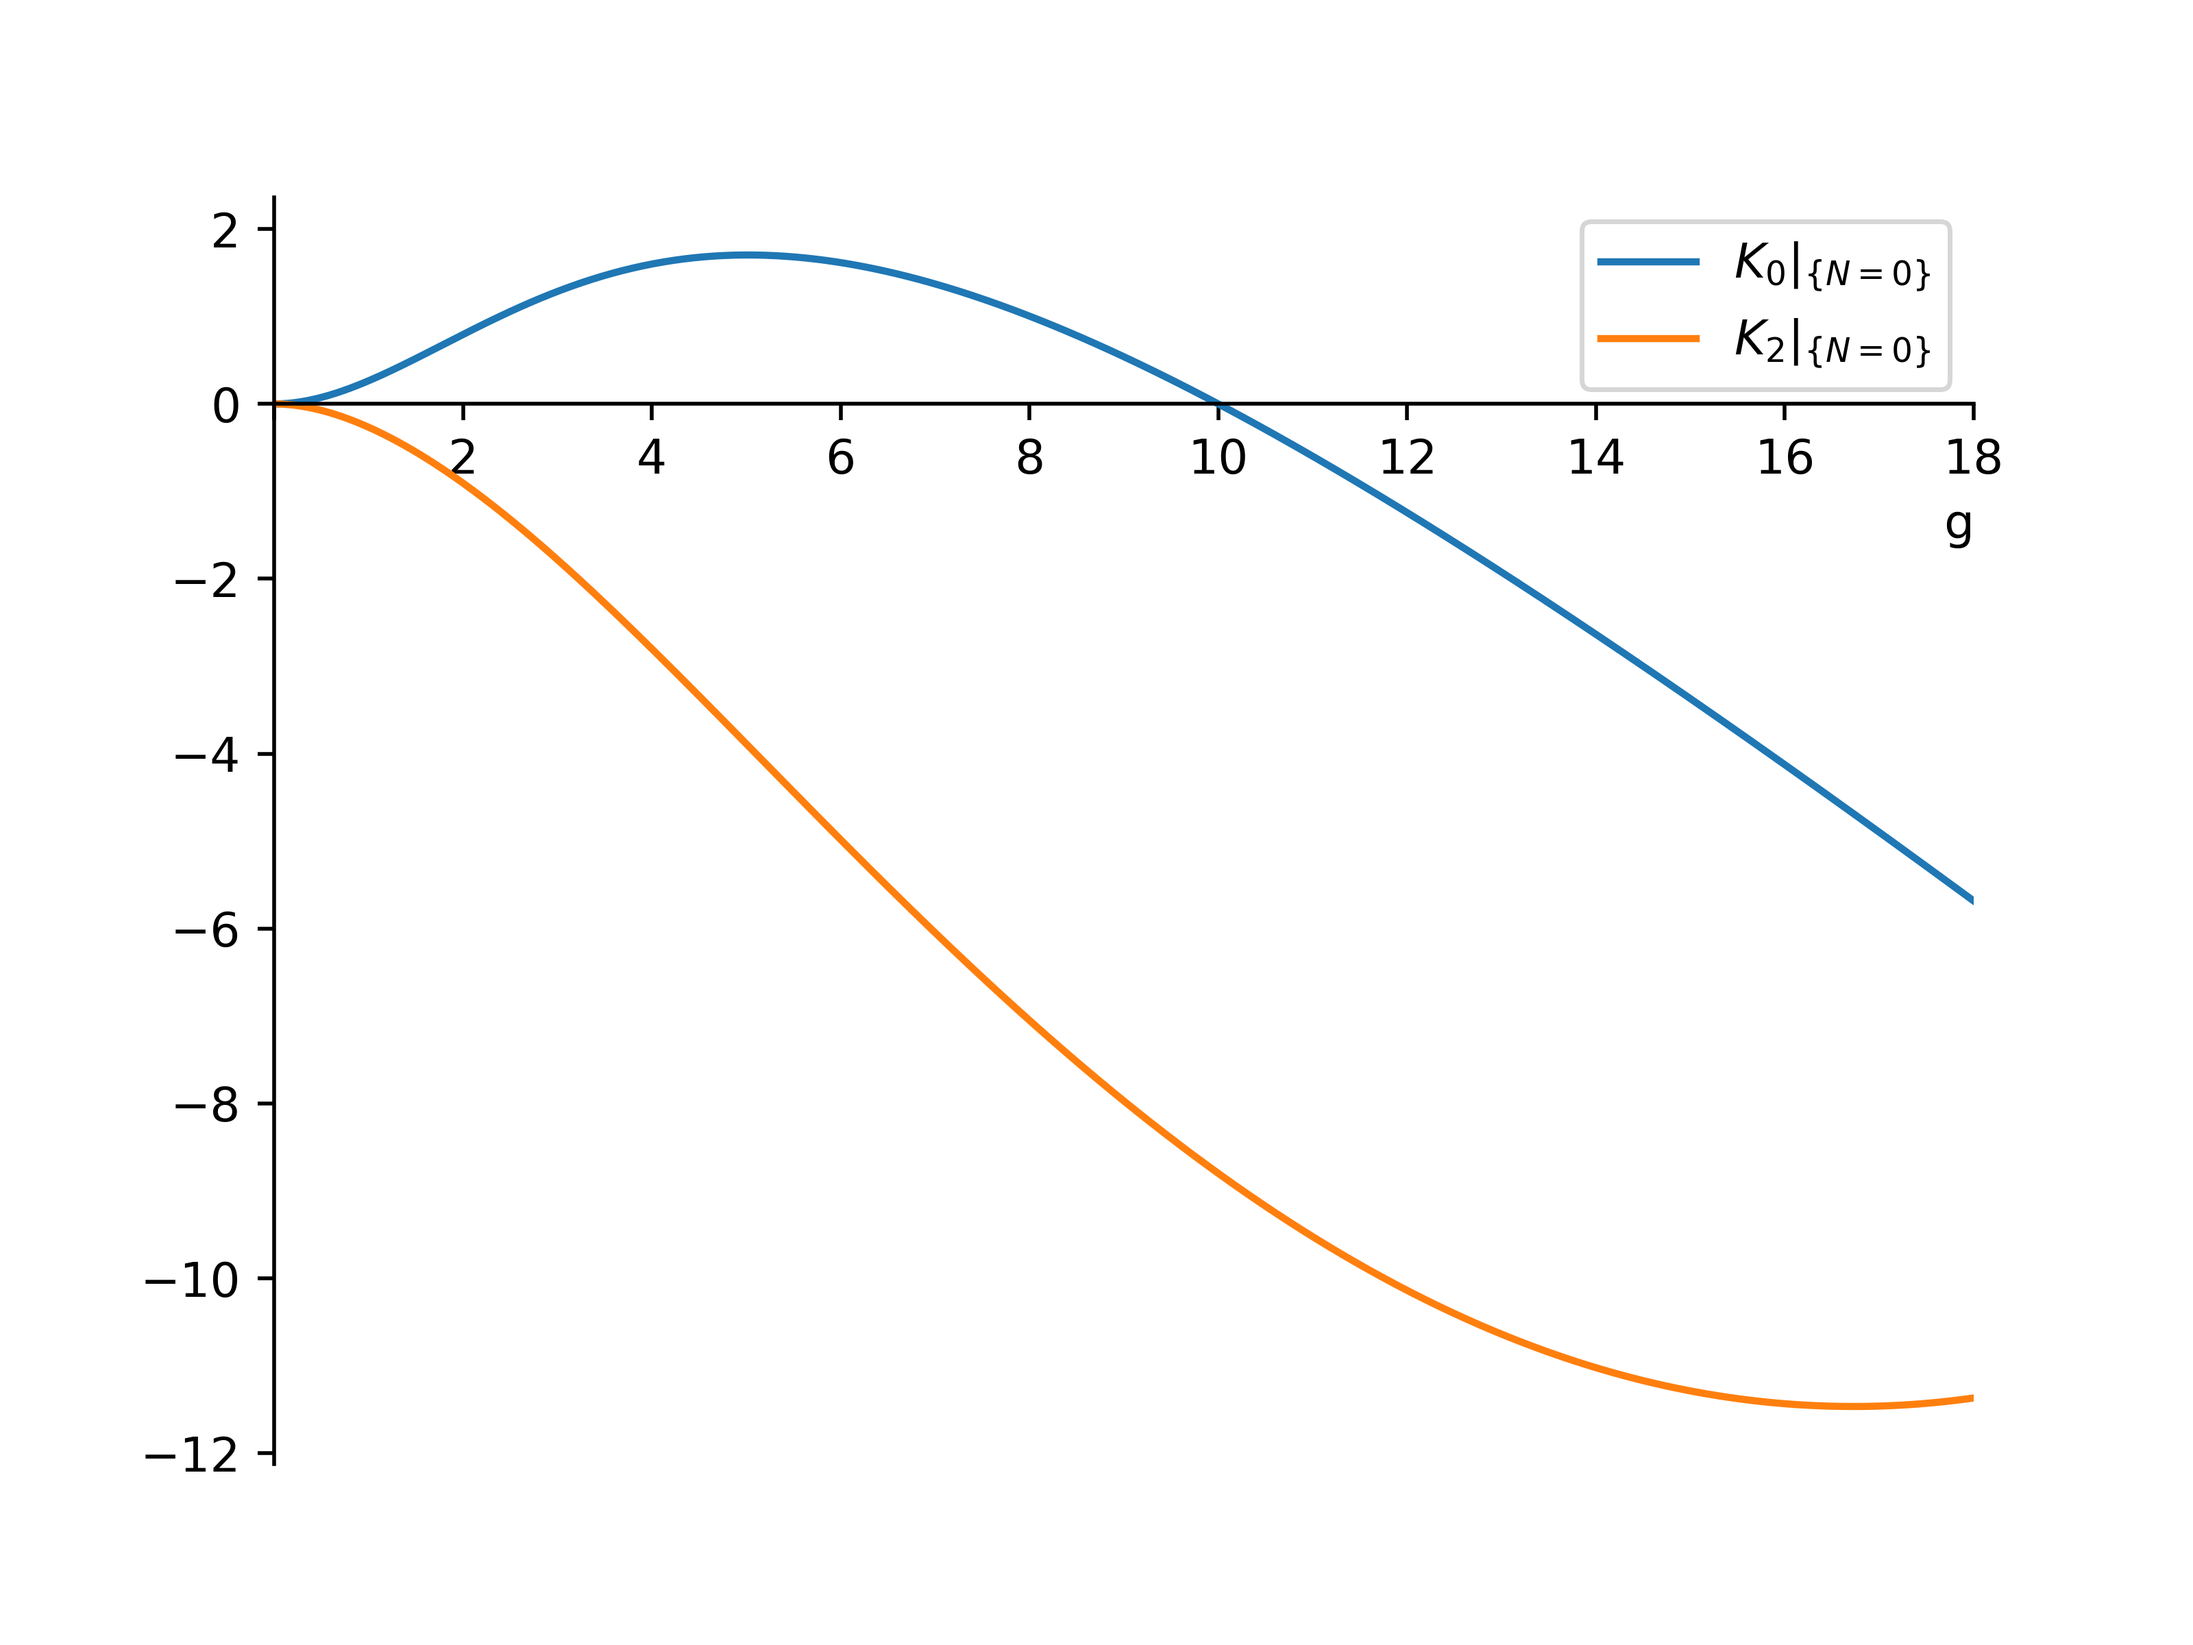
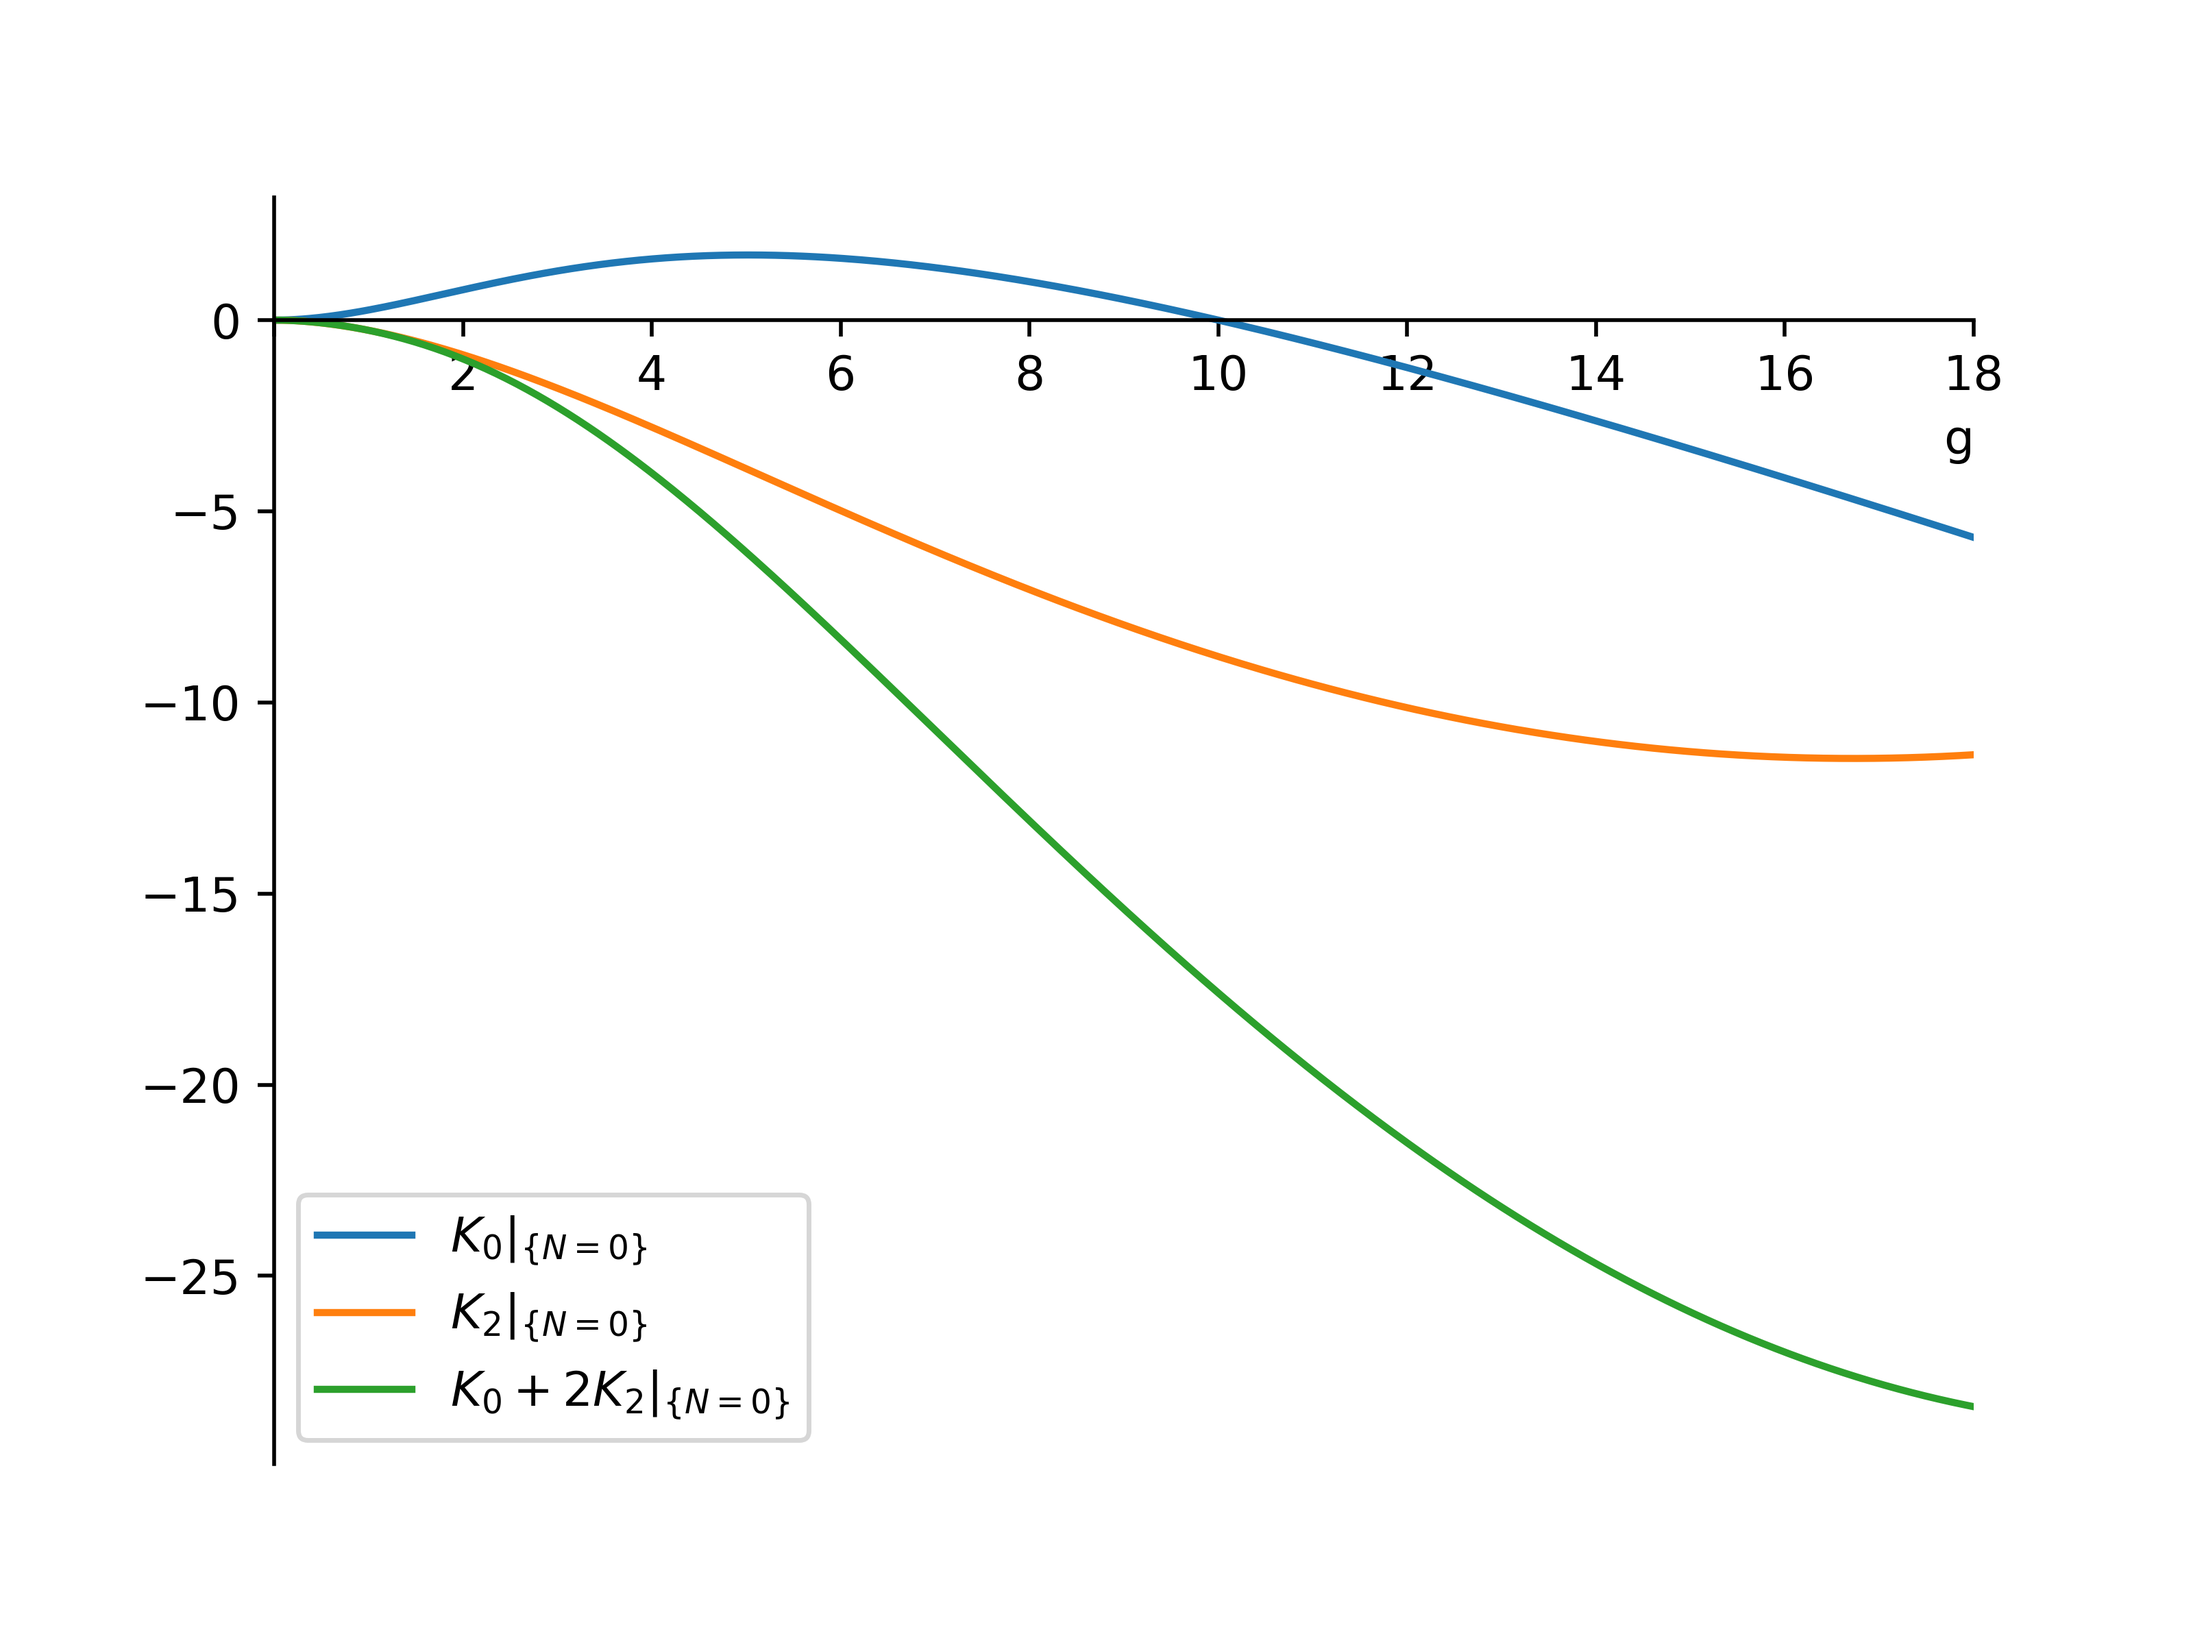
update coefficient plots

diff --git a/Coefficients-Plots/CoefficientsPlotHexagon.py b/Coefficients-Plots/CoefficientsPlotHexagon.py
@@ -80,15 +80,18 @@ plt.savefig("DensityMapN.png",dpi=500)
 x = np.linspace(0.01,17.99,500)
 k0n0 = np.zeros(len(x))
 k2n0 = np.zeros(len(x))
+sumkn0 = np.zeros(len(x))
 
 
 for ii in range(len(x)):
     k0n0[ii] = K0N0_fast_eval(x[ii])
     k2n0[ii] = K2N0_fast_eval(x[ii])
+    sumkn0[ii] = k0n0[ii] + 2*k2n0[ii]
 
 fig, ax = plt.subplots()
 ax.plot(x,k0n0,label=r'$K_0|_{\{N=0\}}$')
 ax.plot(x,k2n0,label=r'$K_2|_{\{N=0\}}$')
+ax.plot(x,sumkn0,label=r'$K_0 + 2K_2|_{\{N=0\}}$')
 plt.xlim(0,18)
 plt.xlabel('g', loc='right')
 # plt.title(r'Coefficients on $\{N=0\}$')
